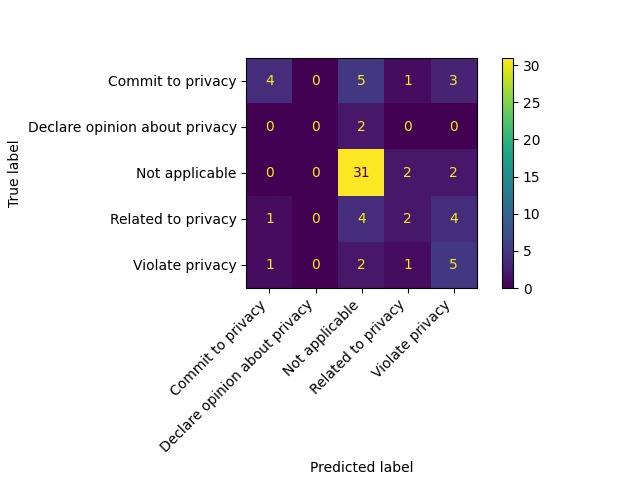
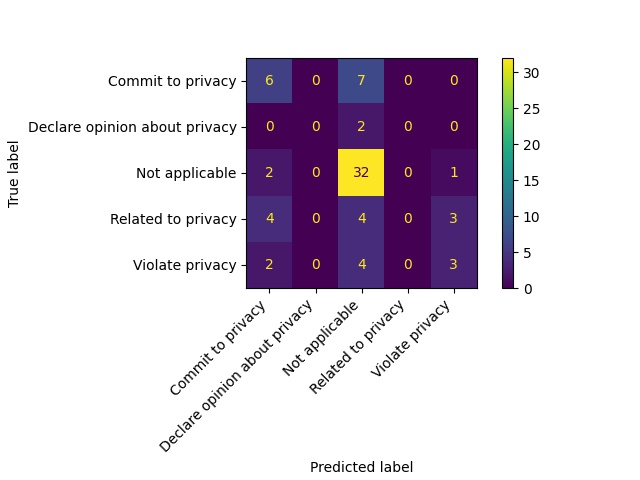
AI classifier configurations: initial + binary word representation + n_estimators 50 + learning rate: 0.5

diff --git a/AIclassifier.py b/AIclassifier.py
@@ -136,7 +136,7 @@ dev_labels_primary = create_labels_array(labels_dev)
 # CLASSIFIER
 
 # Configurations
-adaclassifier = AdaBoostClassifier(n_estimators=300, learning_rate=0.5) # n_est 25, 50, 75, 100,200, 300 lr 0.5, 1
+adaclassifier = AdaBoostClassifier(n_estimators=50, learning_rate=0.5) # n_est 25, 50, 75, 100,200, 300 lr 0.5, 1
 
 # FLAG - CHECK WHICH CONFIGURATIONS SHOULD BE HERE - checked
 
